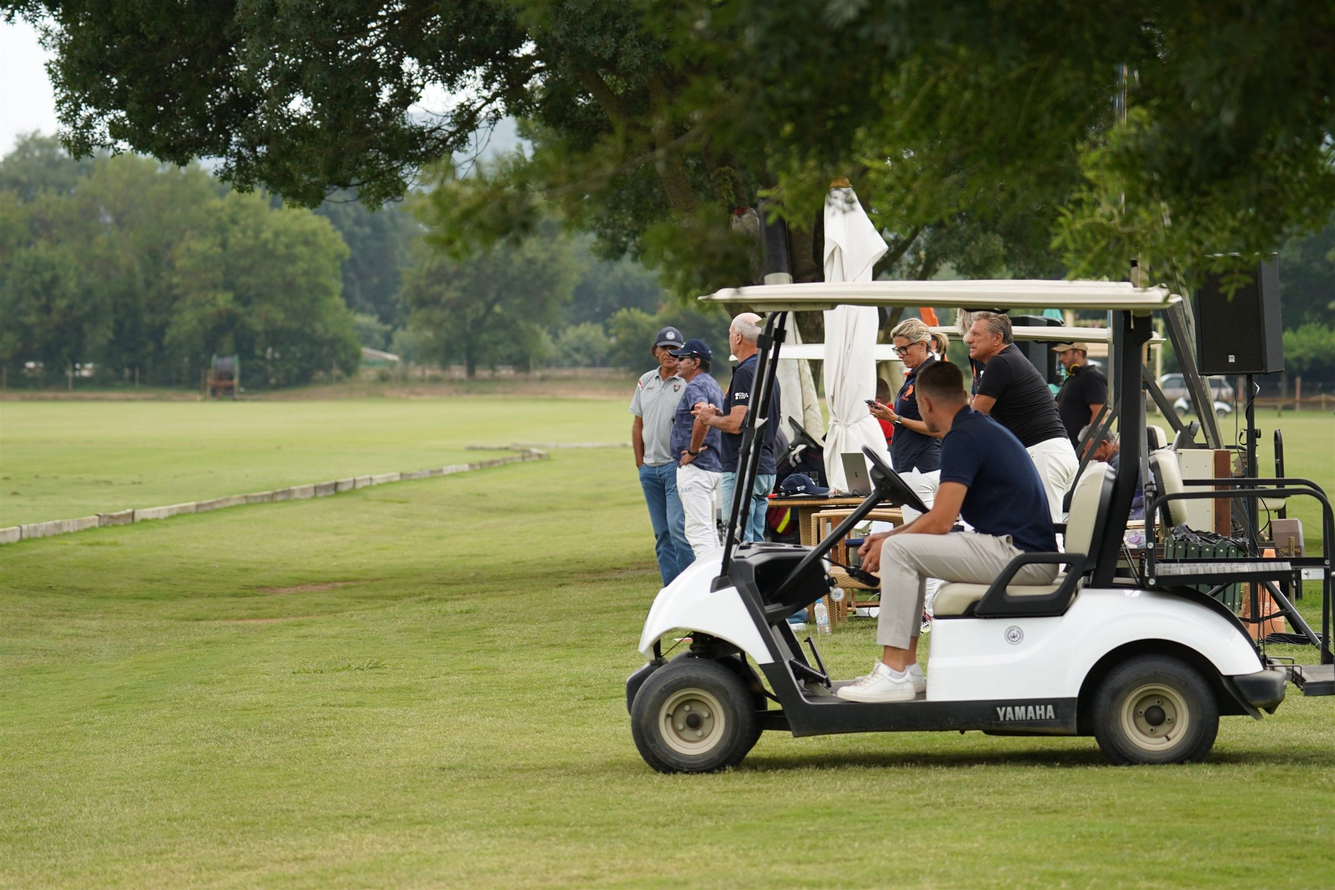
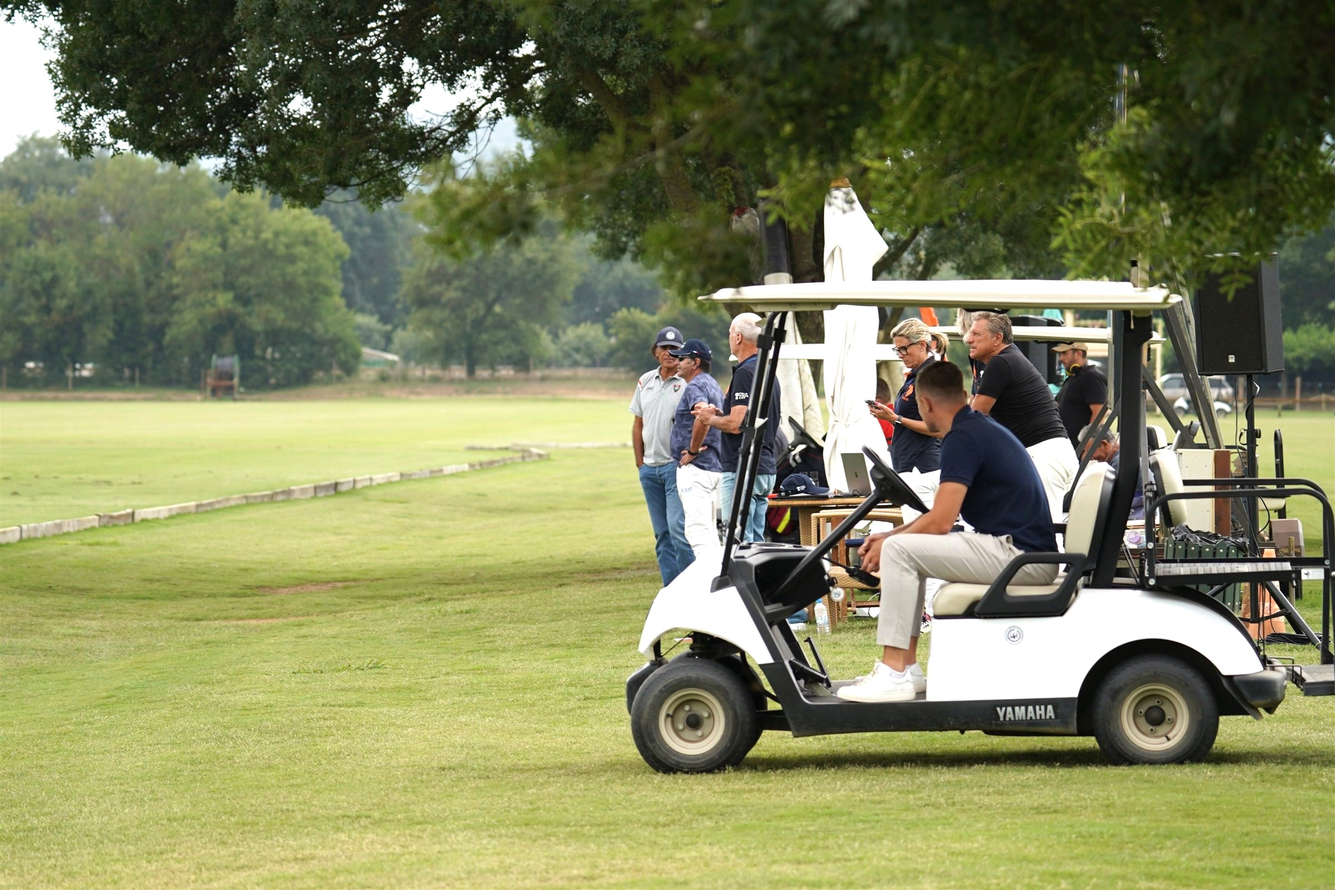
refactor(hero): enhance visual presentation and text readability
Apply brightness and contrast adjustments to hero images and replace complex, multi-tier gradients with a cleaner, more luminous scrim for improved image vibrancy and text clarity.

diff --git a/src/components/HeroSlider.jsx b/src/components/HeroSlider.jsx
@@ -147,7 +147,7 @@ export default function HeroSlider() {
             <img
               src={s.image}
               alt={s.alt}
-              className={`w-full h-full object-cover object-center transform transition-transform duration-10000 ease-out ${
+              className={`w-full h-full object-cover object-center transform transition-transform duration-10000 ease-out brightness-[1.06] contrast-[1.02] ${
                 isActive ? 'scale-105' : 'scale-100'
               }`}
               onError={(e) => {
@@ -155,10 +155,9 @@ export default function HeroSlider() {
                 e.currentTarget.src = `/images/hero/hero-${s.id}.jpg`;
               }}
             />
-            {/* Multi-tier Cinematic Scrim & Shading Gradients for High Readability */}
-            <div className="absolute inset-0 bg-gradient-to-r from-[#070B14]/95 via-[#070B14]/80 to-[#070B14]/30" />
-            <div className="absolute inset-0 bg-gradient-to-t from-[#070B14] via-transparent to-[#070B14]/60" />
-            <div className="absolute inset-0 bg-[radial-gradient(ellipse_80%_60%_at_20%_40%,rgba(197,168,128,0.12),rgba(0,0,0,0))] pointer-events-none" />
+            {/* Luminous, soft scrim: keeps images bright and vibrant across the frame while maintaining crystal-clear text readability */}
+            <div className="absolute inset-0 bg-gradient-to-r from-slate-950/60 via-slate-950/20 to-transparent" />
+            <div className="absolute inset-0 bg-gradient-to-t from-slate-950/40 via-transparent to-transparent" />
           </div>
         );
       })}
@@ -181,25 +180,25 @@ export default function HeroSlider() {
           {/* Heading (Mandatory Single <h1> on Slide 1; Styled <div> on other slides) */}
           <div className="space-y-2.5">
             {slide.isH1 ? (
-              <h1 className="text-3xl sm:text-5xl lg:text-6xl font-black tracking-tight text-white leading-[1.08] font-serif">
+              <h1 className="text-3xl sm:text-5xl lg:text-6xl font-black tracking-tight text-white leading-[1.08] font-serif drop-shadow-[0_2px_12px_rgba(0,0,0,0.9)]">
                 {slide.titleMain}
                 <span className="text-[#C5A880]">{slide.titleAccent}</span>
                 {slide.titleSuffix}
               </h1>
             ) : (
-              <div className="text-3xl sm:text-5xl lg:text-6xl font-black tracking-tight text-white leading-[1.08] font-serif">
+              <div className="text-3xl sm:text-5xl lg:text-6xl font-black tracking-tight text-white leading-[1.08] font-serif drop-shadow-[0_2px_12px_rgba(0,0,0,0.9)]">
                 {slide.titleMain}
                 <span className="text-[#C5A880]">{slide.titleAccent}</span>
                 {slide.titleSuffix}
               </div>
             )}
-            <p className="text-sm sm:text-base font-semibold uppercase tracking-wider text-[#C5A880] font-serif">
+            <p className="text-sm sm:text-base font-semibold uppercase tracking-wider text-[#C5A880] font-serif drop-shadow-[0_2px_6px_rgba(0,0,0,0.85)]">
               {slide.subtitle}
             </p>
           </div>
 
           {/* Descriptive Copy */}
-          <p className="text-base sm:text-lg text-slate-200 leading-relaxed font-normal max-w-2xl text-shadow-sm">
+          <p className="text-base sm:text-lg text-slate-100 leading-relaxed font-normal max-w-2xl drop-shadow-[0_1px_6px_rgba(0,0,0,0.85)]">
             {slide.description}
           </p>
 
